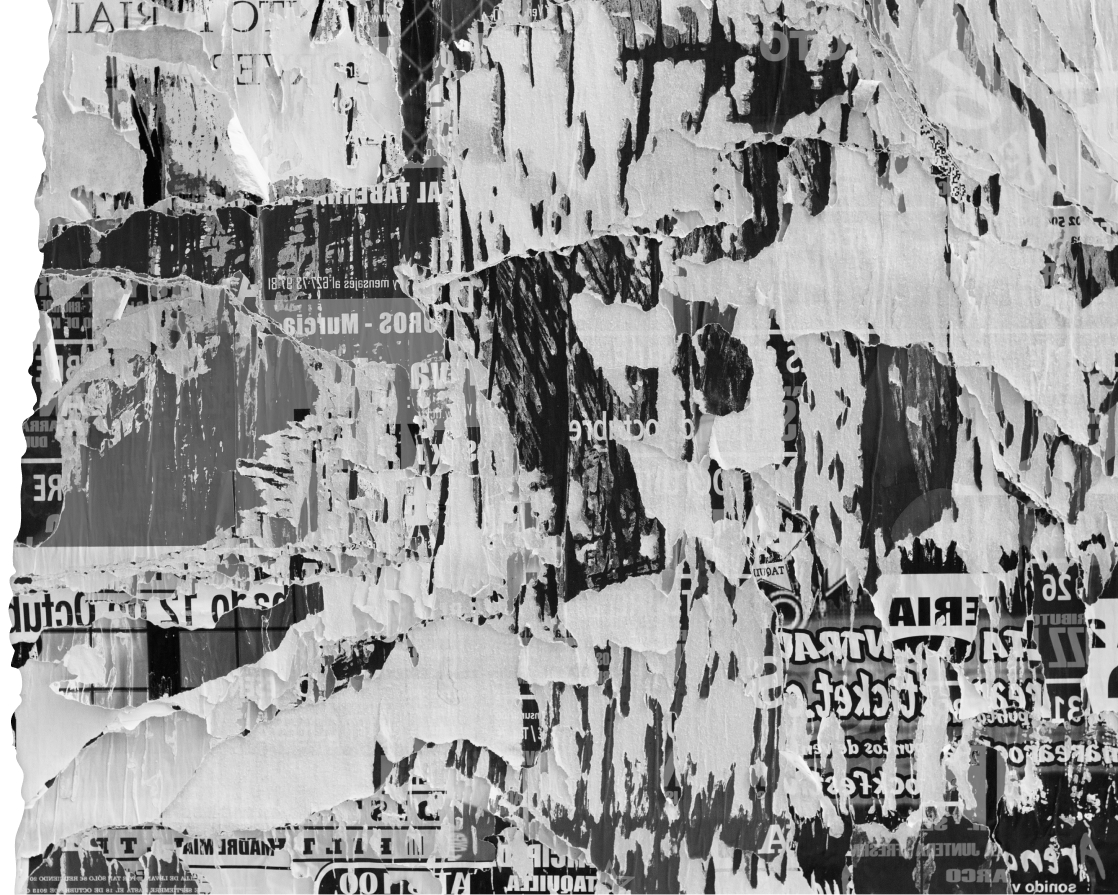
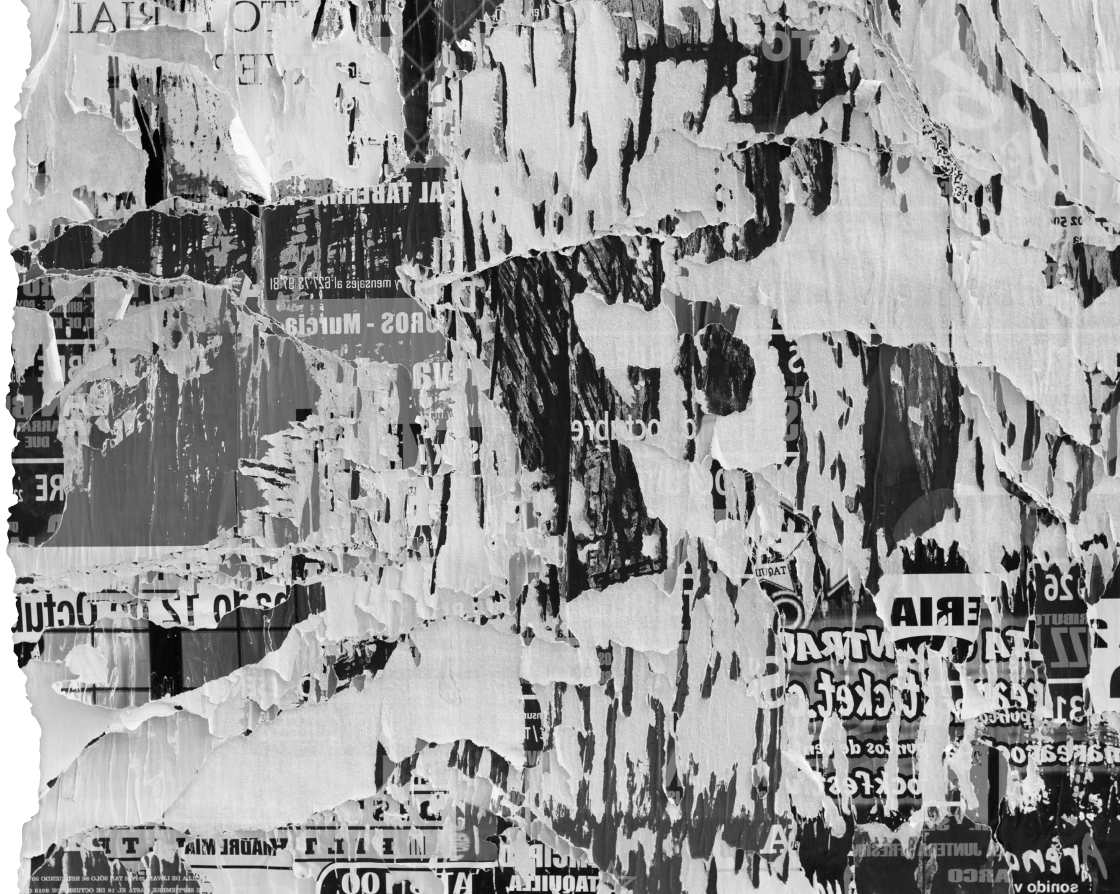
Progress in sections
Testing and progress in some sections with parallax effect. All of them are in Home.

diff --git a/index.html b/index.html
@@ -3,7 +3,7 @@
 <head>
     <meta charset="UTF-8">
     <meta name="viewport" content="width=device-width, initial-scale=1.0">
-    <meta name="description"content="Educación no convencional de Ninjas, para Ninjas. ">
+    <meta name="description" content="Educación no convencional de Ninjas, para Ninjas. ">
     <title>Ninja Academy</title>
 
     <!--BOOTSTRAP CSS-->
@@ -27,9 +27,10 @@
 <body>
 <!--NAVBAR-->
     <!-- MÓDULO GENERAL NAVBAR BOOTSTRAP 5 -->
-    <nav class="navbar navbar-expand-lg navbar-dark text-center>
+    <nav class="navbar navbar-expand-lg navbar-dark text-center">
+
         <div class="container">
-            <a class="navbar-brand col-1 col-lg-1" href="./">
+            <a class="navbar-brand col-2 col-lg-2" href="./">
                 <img src="./images/logo.svg" class="img-fluid" alt="Logo">
             </a>
             <button class="navbar-toggler collapsed" type="button" data-bs-toggle="collapse" data-bs-target="#menu02">
@@ -52,7 +53,7 @@
                         <a class="nav-link" href="#">Para empresas</a>
                     </li>
                 </ul>
-                <ul class="navbar-nav mb-2 mb-lg-0 nav flex-column inicio-sesion">
+                <ul class="navbar-nav mb-2 mb-lg-2 nav flex-column justify-content-end inicio-sesion">
                     <li class="nav-item inicio-sesion-big">
                         <a class="nav-link active" href="#">¡Ya soy Ninja!</a>
                     </li>
@@ -63,18 +64,108 @@
             </div>
         </div>
     </nav>
-
-    <div class="container-fluid">
-        <div class="row home-somos-ninjas align-items-center">
-            <div class="somos-ninjas-left col-5">
-                <img src="./images/home-somos-ninjas.svg" class="img-fluid" alt="Somos Ninjas">
-            </div>
-            <div class="somos-ninjas-right col-7">
-                <h2>Hola</h2>
+<!--     <section class="home-somos-ninjas">
+        <div class="container-fluid">
+            <div class="row">
+                <div class="somos-ninjas-left col-5">
+                    <img src="./images/home-somos-ninjas.svg" class="img-fluid" alt="Somos Ninjas">
+                </div>
+                <div class="somos-ninjas-right col-7">
+                    <h2>Hola</h2>
+                </div>
             </div>
         </div>
+    </section> -->
+    <section class="autenticos">
+        <div class="container-fluid">
+            <div class="row align-items-center">
+                <div class="separador">
+                    <img src="./images/separador-1.svg" alt="separador de papel">
+                </div>
+                <div class="parallax-background row justify-content-center align-items-center">
+                    <img class="img-fluid" src="./images/queremos-img-persona.png" alt="chica Ninja">
+                    <h4>Los ninjas somos auténticos</h4>
+                </div>
+            </div>
+            <div class="row align-items-center">
+                <div class="separador">
+                    <img src="./images/separador-1.svg" alt="separador de papel">
+                </div>
+            </div>
+        </div>
+    </section>
 
-    </div>
+    <section class="hacen">
+        <div class="container hacen-container">
+            <div class="row">
+                <div class="col-12 text-center ">
+                    <h2>¿Qué hacen los ninjas?</h2>
+                </div>
+            </div>
+            <div class="row justify-content-center">
+                <div class="col-md-3 text-center">
+                    <div class="row">
+                        <img class="image-fluid" src="./images/hacen-img-1.png" alt="">
+                    </div>
+                    <div class="hacen-card row align-items-center">
+                        <p>Aprenden de los expertos de las empresas más reconocidas</p>
+                    </div>
+                </div>
+                <div class="col-md-3 text-center justify-content-center">
+                    <div class="hacen-card row align-items-center">
+                        <p>Aprenden de los expertos de las empresas más reconocidas</p>
+                    </div>
+                    <div class="row align-items-end">
+                        <img class="image-fluid" src="./images/hacen-img-1.png" alt="">
+                    </div>
+                </div> 
+            </div>      
+        </div>
+    </section>
+    
+    <section class="que-queremos-container">
+        <div class="container-fluid">
+            <div class="back-darkblue">
+                <div class="row back-darkblue">
+                    <img class="separador" src="./images/queremos-separador.svg" alt="separador">
+                </div>
+                <div class="row back-darkblue justify-content-center">
+                    <div class="col-10 text-center">
+                        <h2>¿Qué queremos nosotros para los Ninjas?</h2>
+                    </div>
+                </div>
+            </div>
+            <div class="row que-queremos-separador">
+                <img src="./images/queremos-separador-2.png" alt="separador">
+            </div>
+        </div>
+    </section>
+
+    <section class="queremos">
+        <div class="container-fluid">
+            <div class="row">
+                <p>hola</p>
+            </div>
+        </div>
+    </section>
+
+    <section>
+        <div class="container-fluid mindset-container">
+            <div class="row mindset-separador justify-content-center">
+                <img src="./images/mindset-separador.png" alt="separador">
+            </div>
+            <div class="row justify-content-center text-center back-purple">
+                <h2>Mindset Ninja</h2>
+                <div class="col-8">
+                    <img src="./images/mindset-mundo.png" alt="">
+                    <h4> Los ninjas  no nos preguntamos si vamos a cambiar el mundo, nos preguntamos cómo vamos a cambiarlo </h4>
+                </div>
+            </div>
+
+        </div>
+    </section>
+
+
 
 
 

diff --git a/css/styles.css b/css/styles.css
@@ -7,12 +7,56 @@
 
 h1 {
     font-family: "Lilita One", cursive;
+    text-transform: uppercase;
 }
 
 h2 {
-    font-family: "DM Sans", sans-serif;
+    font-family: "Lilita One", cursive;
     font-weight: 500;
+    text-transform: uppercase;
+    font-size: 60px;
+    padding: 96px 0px;
 }
+
+h3 {
+    font-family: "Lilita One", cursive;
+    font-weight: 500;
+    font-size: 60px;
+    text-transform: uppercase;
+}
+
+h4 {
+    font-family: "Lilita One", cursive;
+    font-weight: 400;
+    font-size: 40px;
+    text-transform: uppercase;
+    text-shadow: 2px 0px 15px #0000005f;
+    line-height: 64px;
+}
+
+h5 {
+    font-family: "Lilita One", cursive;
+    font-weight: 400;
+    font-size: 32px;
+    text-transform: uppercase;
+}
+
+
+p {
+    font-family: "DM Sans", sans-serif;
+}
+
+.back-darkblue {
+    background-color: #0C0B24;
+    color: white;
+}
+
+.back-purple {
+    background-color: #5D5FF0;
+    color: white;
+}
+
+
 
 /* ----Nav----*/
 
@@ -24,6 +68,7 @@ h2 {
     width: 100%;
     top: 0;
     overflow: hidden;
+    z-index: 2;
 }
 
 .navbar img {
@@ -49,24 +94,150 @@ h2 {
 
 
 /* ----Somos Ninjas----*/
-.home-somos-ninjas {
-    height:600px;
-    background-color: #0C0B24;
-}
 
 .somos-ninjas-left {
     background-color: #0C0B24;
+    height:604px;
 }
 
 .somos-ninjas-left img{
     background-color: #0C0B24;
-    padding: 60px;
+    padding: 40px;
 }
 
 .somos-ninjas-right {
-    height:600px;
+    height:604px;
     background-image: url(../images/home-somos-background.jpeg);
     background-repeat: no-repeat;
     background-position: left;
+    background-size: cover;
 }
 
+
+/*---Ninjas Autenticos---*/
+.autenticos {
+    color: white
+}
+
+.parallax-background {
+    height:504px;
+    background-image: url(../images/autenticos-background.jpeg);
+    background-repeat: no-repeat;
+    background-position: center;
+    background-size: cover;
+    background-attachment: fixed;
+    margin-top:-60px;
+    position: relative;
+    margin-left: 0px;
+}
+
+.parallax-background img {
+    width: 480px;
+    padding: 50px 10px 0px 10px;
+    text-align:center;
+    position: absolute;
+}
+
+.parallax-background h4 {
+    z-index: 1;
+    text-align:center;
+}
+
+.separador {
+    margin-top:-60px;
+    z-index: 1;
+    padding: 0px;
+}
+
+.separador img {
+    width: 100%;
+}
+
+/*---Hacen---*/
+.hacen-container {
+    height: 960px;
+}
+
+.hacen img {
+    padding: 40px 0px;
+    width: 90%;
+}
+
+.hacen-card {
+    background-image: url(../images/hacen-card-background.jpeg);
+    width: 90%;
+    height: 300px;
+    border-style: solid;
+    border-color: black;
+    border-width: 1px;
+    padding: 10px;
+}
+
+.hacen-card p {
+    font-family: "Lilita One", cursive;
+    font-size: 20px;
+    line-height: 28px;
+    text-transform: uppercase;
+}
+
+/*---Queremos---*/
+.que-queremos-container {
+    height: 504px;
+    z-index: 2;
+}
+
+.que-queremos-separador {
+    background-color: transparent;
+}
+
+.que-queremos-separador img{
+    margin-top: -5px;
+    padding: 0px;
+    width: 100%;
+}
+
+.que-queremos-separador p {
+    display: none;
+}
+
+.que-queremos-container h2 {
+    color: white;
+    padding-bottom: 40px;
+}
+
+.queremos {
+    height: 504px;
+    background-image: url(../images/queremos-background.jpeg);
+    background-repeat: no-repeat;
+    background-position: center;
+    background-size: cover;
+    background-attachment: fixed;
+    margin-top: -150px;
+}
+
+/*---Mindset Ninja---*/
+.mindset-container {
+    height: 800px;
+    margin-top: -110px;
+}
+
+.mindset-container h2 {
+    padding-bottom: 32px;
+}
+
+.mindset-container img {
+    padding-bottom: 32px;
+    width: 140px;
+}
+
+.mindset-separador {
+    background-color: transparent;
+    padding: 0px;
+}
+
+.mindset-separador img {
+    background-color: transparent;
+    width: 100%;
+    padding: 0px;
+    margin-bottom: -5px;
+}
